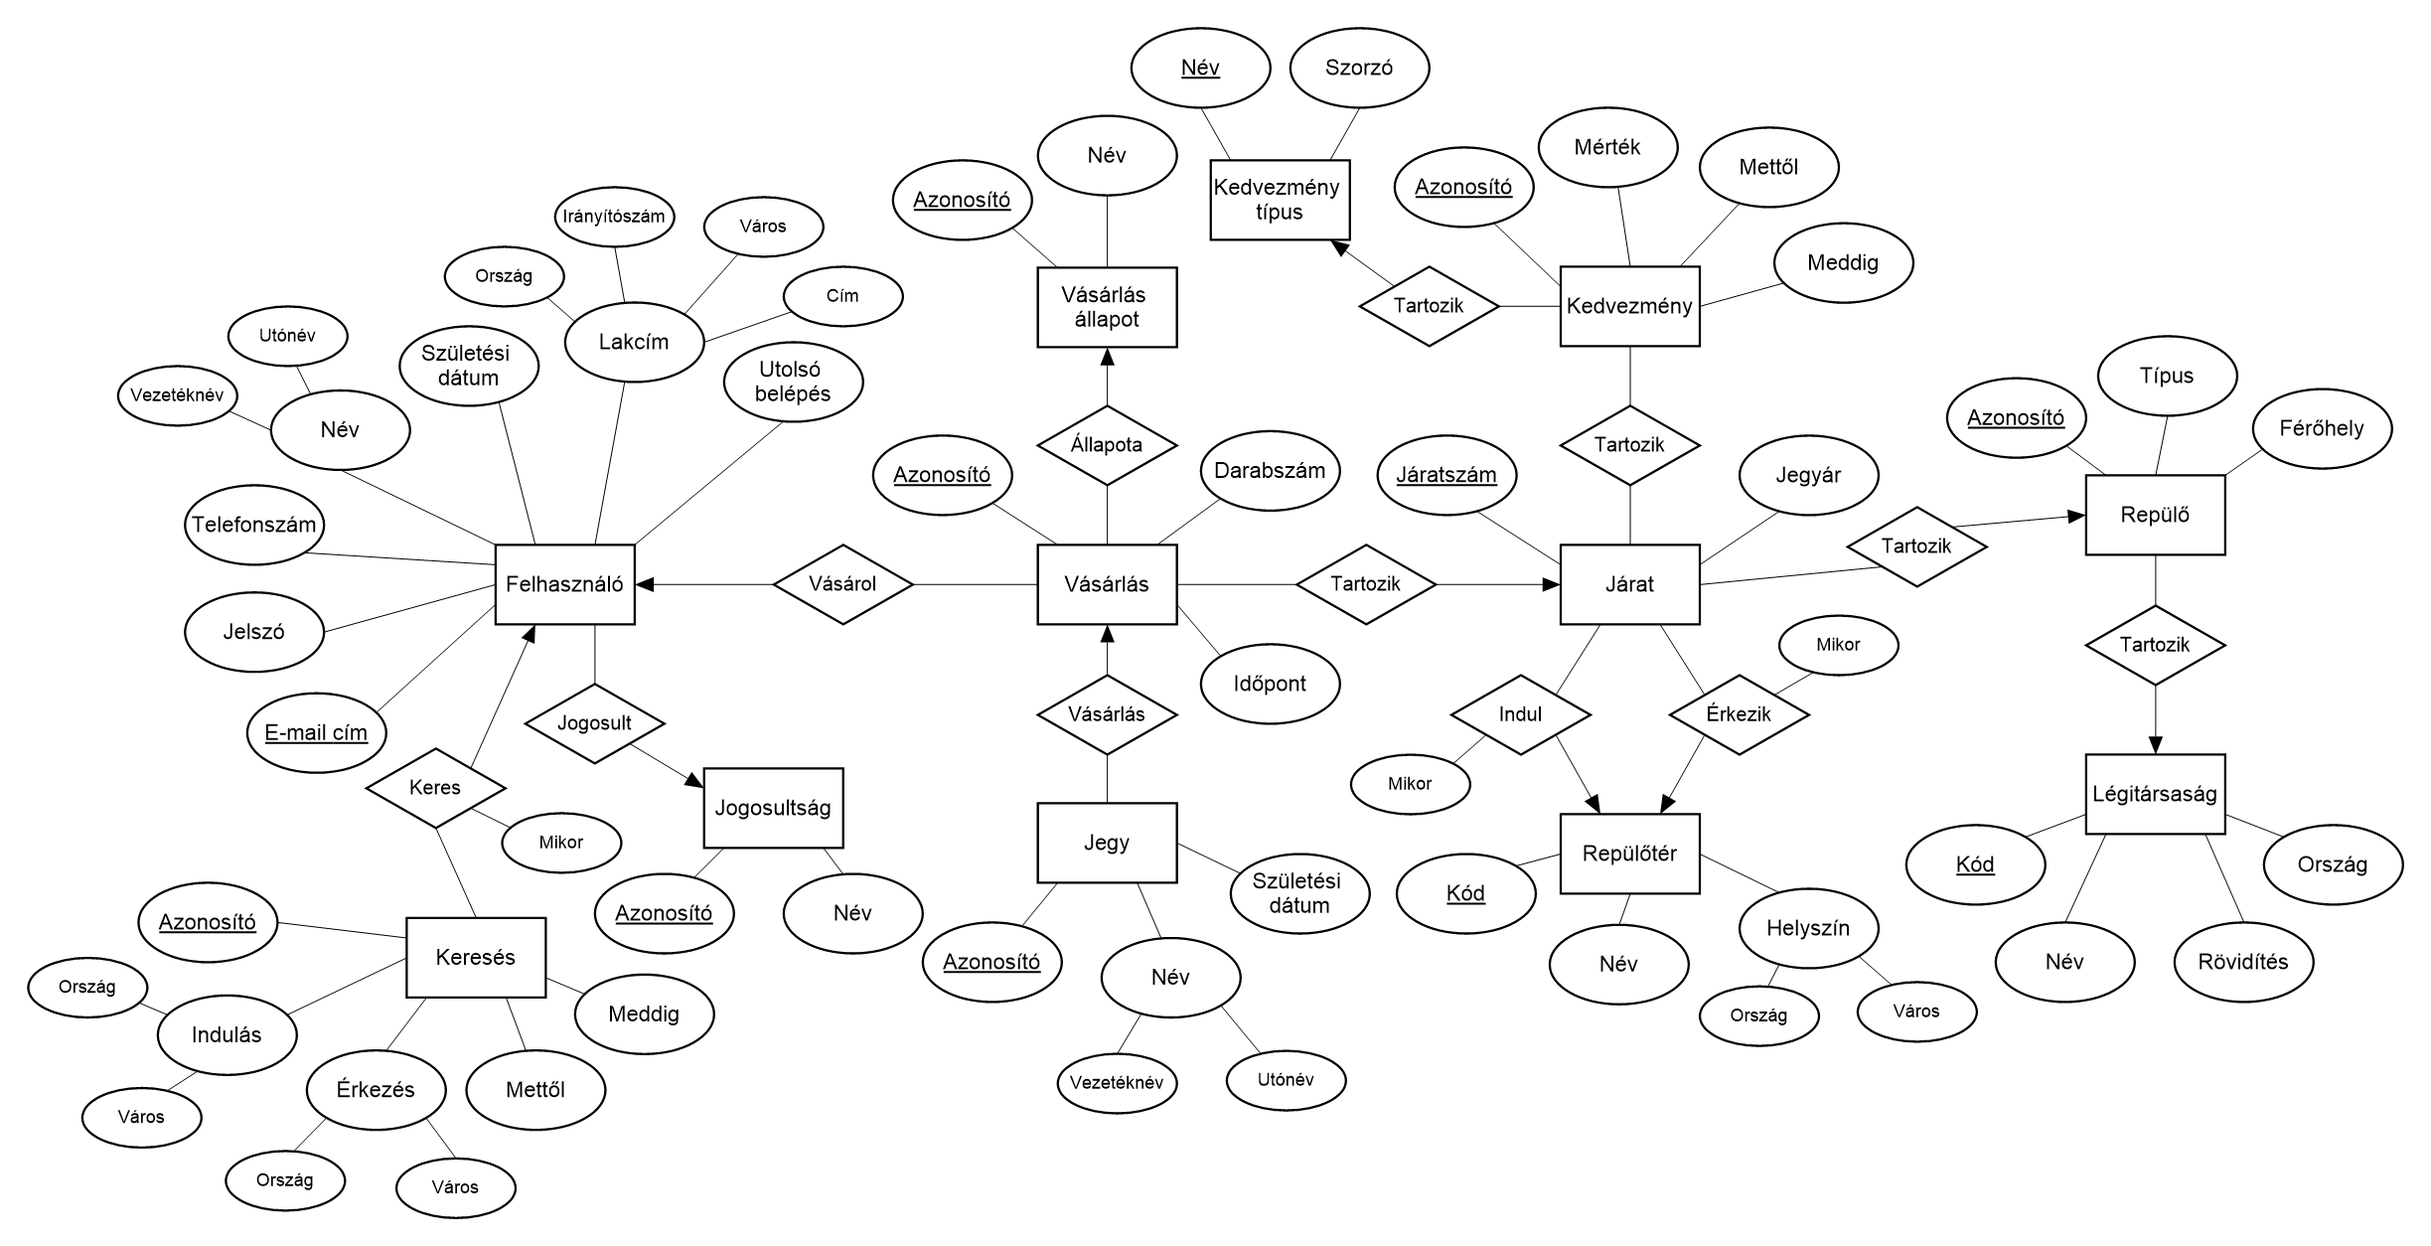
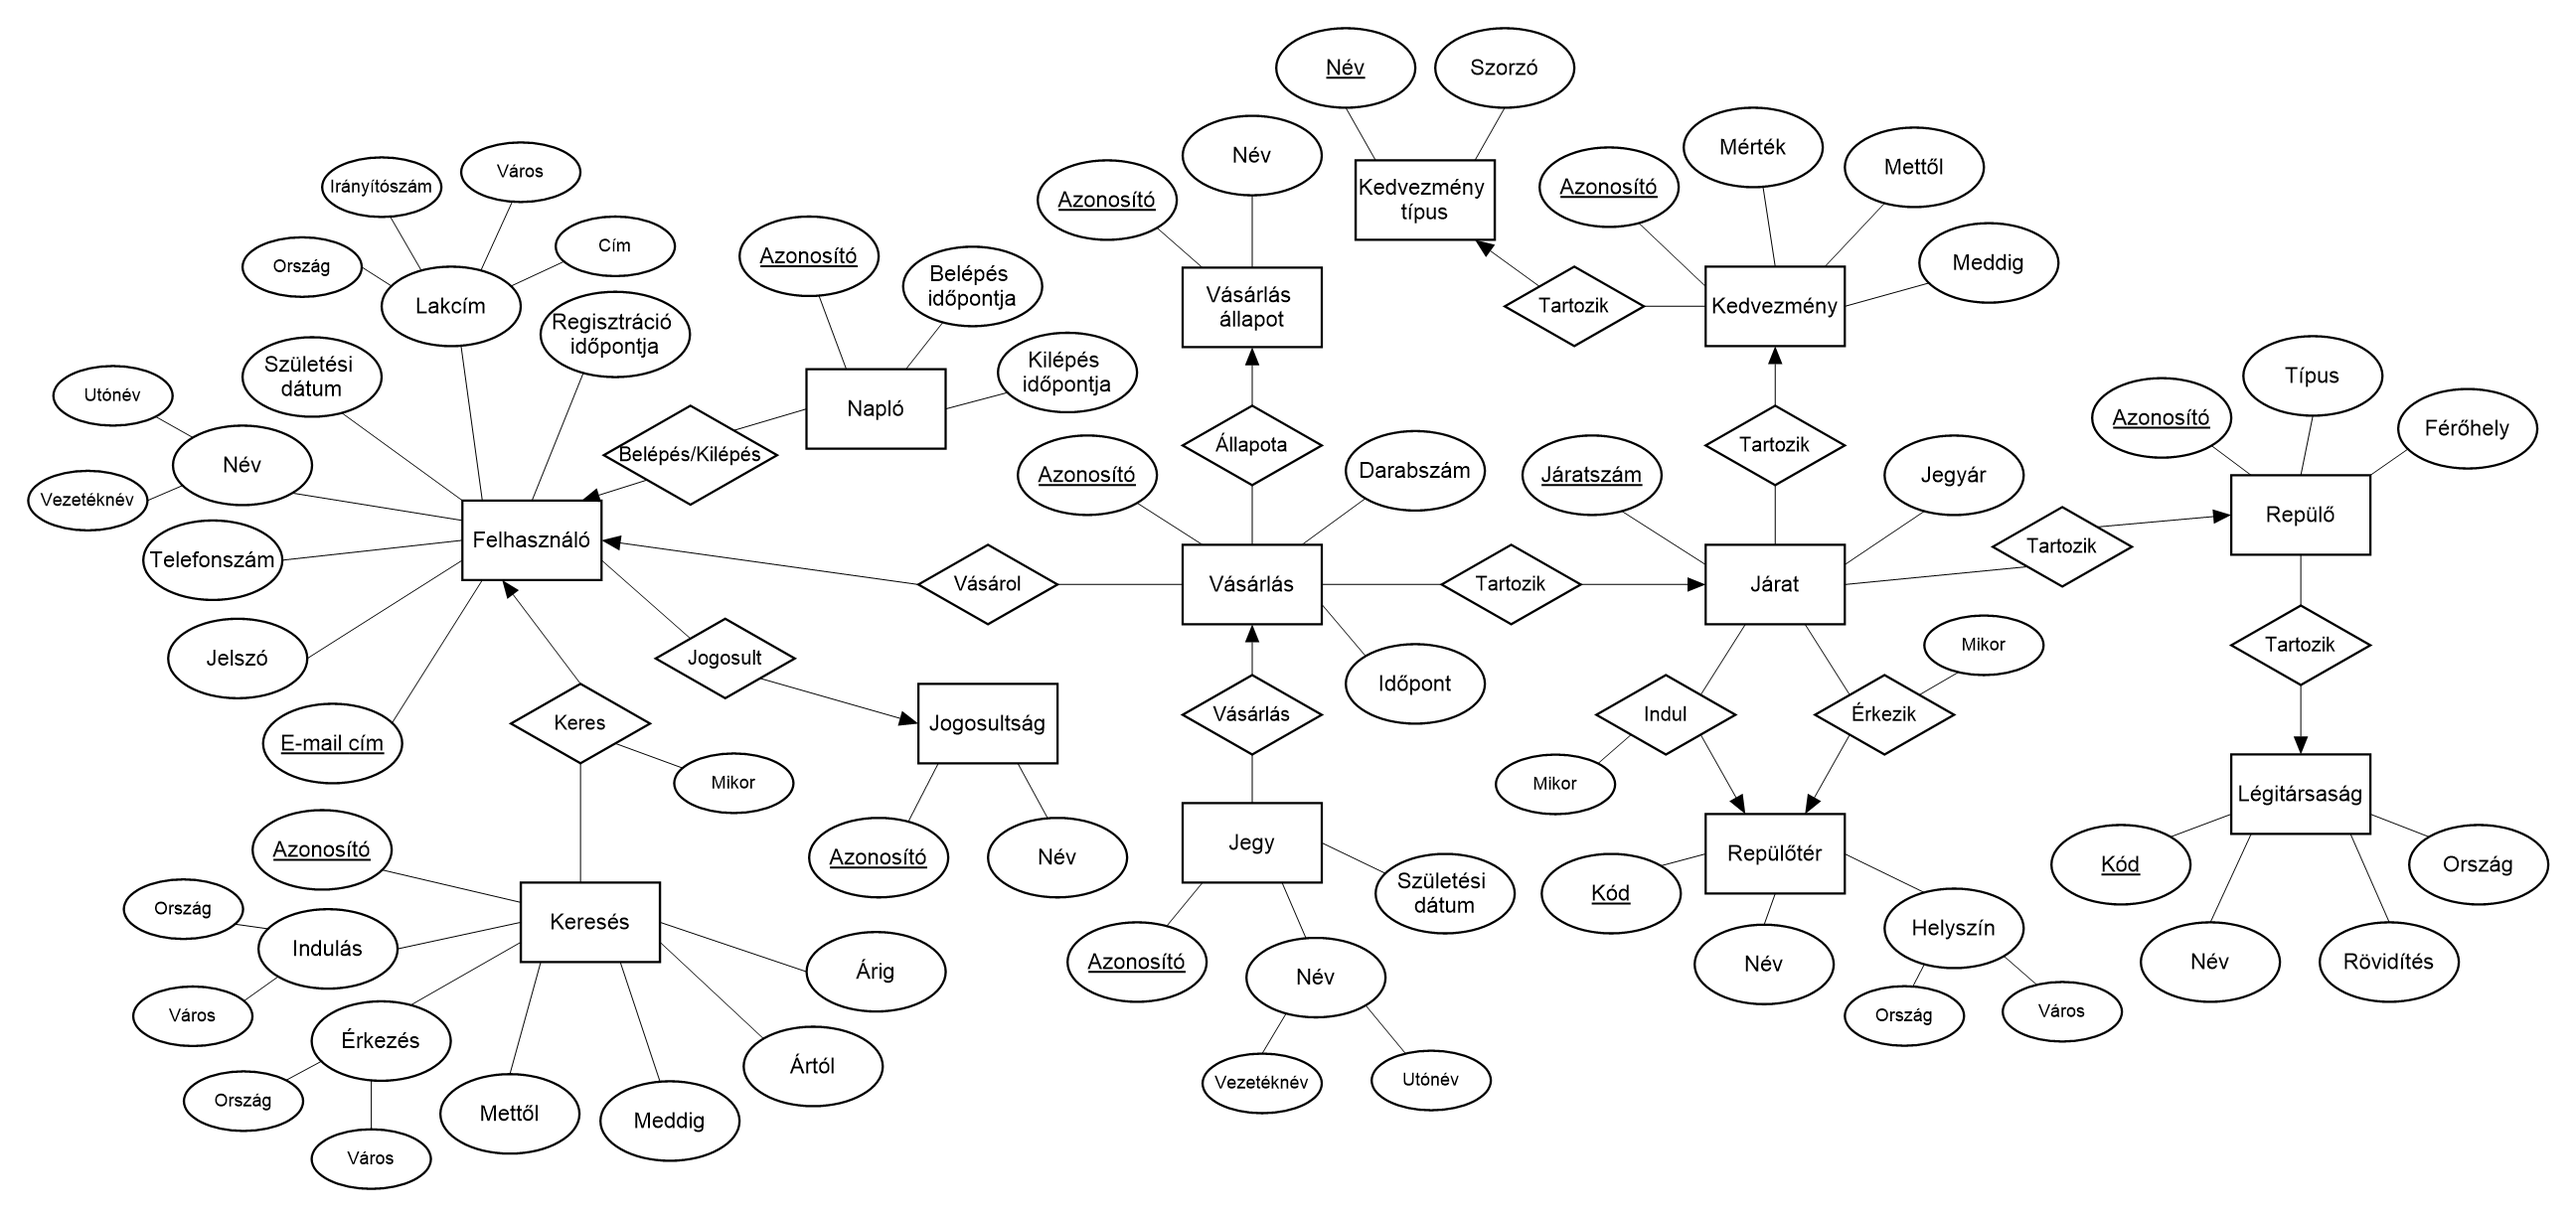
Modify database

Changed region(s): [[0.0, 0.0, 0.9939, 0.9935], [0.3106, 0.8693, 0.3416, 0.9003]]

diff --git a/README.md b/README.md
@@ -64,7 +64,7 @@ Kedvezmény(<ins>azonosító</ins>, *Járat.járatszám*, *típus*, mérték, me
 Vásárlási_állapot(<ins>azonosító</ins>, állapot)
 Vásárlás(<ins>azonosító</ins>, *Felhasználó.e-mail*, *Járat.járatszám*, darabszám, mikor, *állapot*)
 Jegy(<ins>azonosító</ins>, *Vásárlás.azonosító*, vezetéknév, utónév, születési_dátum)
-Keresés(<ins>azonosító</ins>, *Felhasználó.e-mail*, *indulás_ország*, *indulás_város*, *érkezés_ország*, *érkezés_város*, mettől, meddig, <ins>mikor</ins>)
+Keresés(<ins>azonosító</ins>, *Felhasználó.e-mail*, *indulás_ország*, *indulás_város*, *érkezés_ország*, *érkezés_város*, mettől, meddig, ártól, árig, <ins>mikor</ins>)
 
 ### 4.1. 1. normálforma
 A relációséma 1NF-ben van: többértékű attribútumok nem voltak, az összetett attribútumok pedig helyettesítve lettek részattribútumaikkal.
@@ -146,9 +146,9 @@ Járat            | &nbsp;    | &nbsp;
 jaratszam        | NUMBER(6) | A járat egyedi azonosítója
 repulo_azonosito | NUMBER(4) | A járathoz tartozó repülő azonosítója
 jegyar           | NUMBER(6) | Egyetlen jegy ára Ft-ban
-indulas          | DATE      | A járat indulásának pontos időpontja
+indulas          | DATE      | A járat indulásának időpontja
 indulas_kod      | CHAR(4)   | A repülőtér kódja, amelyről a repülőgép felszáll
-erkezes          | DATE      | A járat érkezésének pontos időpontja
+erkezes          | DATE      | A járat érkezésének időpontja
 erkezes_kod      | CHAR(4)   | A repülőtér kódja, amelyre a repülőgép leszáll
 
 ### 5.8. Kedvezmény típus
@@ -184,7 +184,7 @@ azonosito | NUMBER(6)   | A vásárlás egyedi azonosítója
 email     | VARCHAR(64) | A jegye(ke)t vásárló felhasználó e-mail címe
 jaratszam | NUMBER(6)   | A járat azonosítója, amelyre a jegy(ek) szólnak
 darabszam | NUMBER(2)   | A vásárolt jegyek száma
-idopont   | DATE        | A jegyvásárlás pontos időpontja
+idopont   | DATE        | A jegyvásárlás időpontja
 allapot   | NUMBER(1)   | A vásárlás állapota
 
 ### 5.12. Jegy
@@ -210,6 +210,9 @@ erkezes_orszag | VARCHAR(35) | A keresett ország, ahova a járat leszáll
 erkezes_varos  | VARCHAR(35) | A keresett város, ahova a járat leszáll
 mettol         | DATE        | A járat indulási idejének kezdete (napra pontosan)
 meddig         | DATE        | A járat indulási idejének vége (napra pontosan)
+artol          | NUMBER(6)   | A járat jegyárának minimuma
+arig           | NUMBER(6)   | A járat jegyárának maximuma
+idopont        | DATE        | A keresés időpontja
 
 ## 6. Szerep-funkció mátrix
 [Szerep-funkció mátrix](./doc/role_function_matrix.xlsx)
